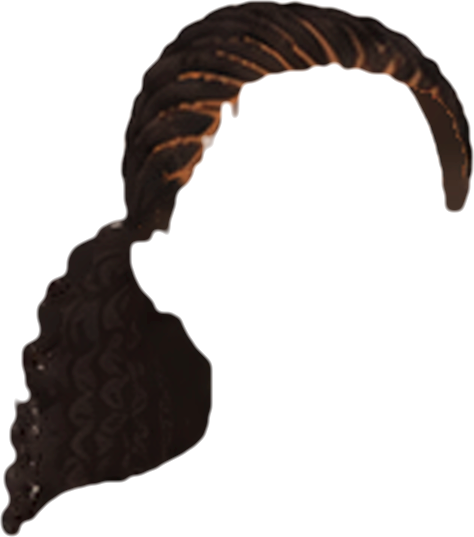
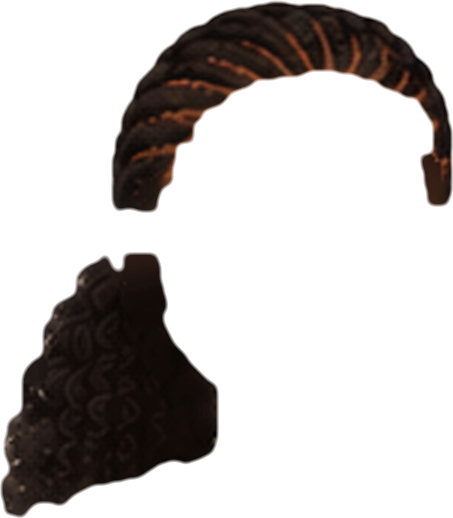
Coiffures bouclées : décalquées sur la nouvelle planche de face (visage du jeu), oreilles rebouchées
Claude-Session: https://claude.ai/code/session_01Vs8WE84NbYT2qCXEQSttrj

Changed region(s): [[0.0, 0.0, 1.0, 1.0]]

diff --git a/js/coiffures-art.js b/js/coiffures-art.js
@@ -1,2 +1,2 @@
 /* formes décalquées par tools/traceur-coiffures.py sur docs/references/coiffures/ — ne pas modifier à la main */
-const HAIR_ART={"longs":{"img":[61.76,56.98,276.48,530.04],"lum":[0.079,0.145,0.33],"fcut":[345,136],"main":"#2f2420","back":[["sil","M76.6,307.2 76.4,323.2 73.5,334.3 73.5,350.9 70.5,357.7 70.5,364.1 72.0,368.0 72.2,374.9 75.3,376.5 76.4,378.4 74.9,385.0 324.9,385.0 323.4,378.4 324.5,376.5 327.6,374.9 327.8,368.0 329.3,364.1 329.3,357.7 326.4,350.9 326.4,334.3 323.4,323.2 323.4,308.0 321.8,303.2 78.0,303.2Z","#211815"]],"front":[["sil","","#2f2420"]]},"carrelisse":{"img":[64.24,52.26,260.24,271.92],"lum":[0.075,0.147,0.377],"main":"#29201c","back":[["sil","","#1a1411"]],"front":[["sil","","#29201c"]]},"queuehaute2":{"img":[95.53,4.04,242.49,372.16],"lum":[0.081,0.152,0.38],"ears":1,"main":"#281e1b","back":[["sil","","#1c1613"]],"front":[["sil","","#281e1b"]]},"mechesdevant":{"img":[52.66,40.92,292.88,450.58],"lum":[0.066,0.132,0.372],"main":"#2b211d","back":[["sil","M64.8,297.4 64.8,308.7 61.3,313.7 61.3,317.6 59.6,322.1 59.6,329.7 57.9,334.2 57.9,343.6 56.1,348.1 56.1,353.9 52.7,367.2 52.7,379.7 54.2,381.9 76.9,382.1 76.9,392.1 73.5,405.3 73.5,411.1 71.7,415.7 71.7,423.3 70.0,427.8 70.0,452.7 71.7,457.3 71.9,462.3 76.5,473.3 86.7,483.9 96.9,486.5 103.4,491.3 287.7,491.3 294.2,486.5 299.6,485.7 306.5,482.2 315.0,474.0 320.8,458.8 321.1,448.6 322.8,444.1 322.8,436.5 321.1,431.9 321.1,420.9 319.3,416.3 319.3,407.0 317.6,402.5 317.6,394.9 315.9,390.3 315.9,383.8 343.8,383.6 345.3,381.5 345.3,370.6 343.6,366.1 343.6,362.0 341.9,357.4 341.9,353.3 338.4,340.1 338.4,334.2 334.9,321.0 334.9,311.7 333.2,307.2 333.2,301.3 331.7,297.4Z","#1a1411"]],"front":[["sil","","#2b211d"]]},"frangedroite":{"img":[73.46,44.39,265.15,443.65],"lum":[0.071,0.146,0.373],"main":"#291f1c","back":[["sil","M77.6,297.6 76.9,324.5 75.2,329.0 75.2,340.1 76.9,344.6 76.9,353.7 73.5,358.7 73.5,369.5 76.3,373.7 281.2,374.1 281.4,412.9 283.1,417.4 283.1,449.3 284.9,453.8 285.3,485.0 290.5,487.8 331.0,487.8 338.0,485.0 338.4,471.1 336.7,466.6 336.7,446.9 334.9,442.3 334.9,429.6 333.2,425.0 333.2,415.7 331.5,411.1 331.5,400.1 329.7,395.5 329.7,388.0 328.0,383.4 328.0,356.8 326.3,352.2 326.3,341.2 324.5,336.6 324.5,318.6 322.8,314.1 322.8,299.6 321.9,297.4Z","#191310"]],"front":[["sil","","#291f1c"]]},"chignonhaut2":{"img":[88.56,-28.55,213.5,337.75],"lum":[0.102,0.159,0.406],"ears":1,"main":"#2d241f","back":[["sil","","#241b18"]],"front":[["sil","","#2d241f"]]},"raiecotel":{"img":[45.39,39.7,268.92,446.25],"lum":[0.074,0.142,0.34],"main":"#271f1d","back":[["sil","M62.7,479.8 65.2,483.5 71.5,485.7 126.4,485.7 129.9,483.3 130.3,472.4 125.1,455.5 125.1,451.4 123.3,446.8 123.3,440.9 121.6,436.3 121.6,425.1 119.8,420.5 119.8,407.6 118.1,403.0 118.1,374.4 116.8,370.0 313.0,369.8 314.1,367.8 314.1,351.6 312.3,347.0 312.3,318.4 310.6,313.8 310.6,296.9 58.8,296.9 57.1,302.6 57.1,312.0 55.3,316.6 55.3,324.3 53.6,328.9 53.6,340.0 51.8,344.6 51.8,352.3 50.1,356.9 50.1,362.8 48.3,367.4 48.3,373.3 46.6,377.9 46.6,383.8 44.8,388.4 44.8,391.7 45.7,394.3 60.6,394.5 60.6,404.8 58.8,409.4 58.8,460.8 60.6,465.4 60.6,469.5 62.3,474.1Z","#181412"]],"front":[["sil","","#271f1d"]]},"deuxtresses":{"img":[80.41,47.89,228.48,455.17],"lum":[0.079,0.134,0.364],"ears":1,"main":"#2b221e","back":[["sil","","#1c1613"]],"front":[["sil","","#2b221e"]]},"serretete":{"img":[63.31,42.58,266.87,334.02],"lum":[0.067,0.132,0.354],"acc":1,"main":"#211a17","back":[["sil","M67.1,299.6 66.8,315.3 65.1,319.9 65.1,331.2 63.3,335.8 63.3,345.3 65.1,349.9 65.1,355.9 63.3,360.5 63.3,374.2 64.4,376.2 324.0,376.2 326.9,378.2 328.4,378.0 329.7,376.2 330.0,349.9 328.2,345.3 328.2,327.0 326.4,322.3 326.4,302.2 324.7,296.5 68.4,296.5Z","#16120f"]],"front":[["sil","","#211a17"]]},"barrette":{"img":[57.2,42.54,269.53,306.42],"lum":[0.067,0.141,0.442],"acc":1,"main":"#271e1b","back":[["sil","M57.2,297.8 57.2,307.8 59.0,312.5 59.2,317.6 63.0,329.0 67.9,337.7 82.6,342.2 96.7,344.2 105.8,347.5 115.4,347.5 120.1,349.3 123.7,348.9 125.3,345.8 283.2,345.8 290.6,342.4 305.5,340.2 309.6,337.3 315.8,335.9 318.9,332.6 321.4,325.9 324.5,322.8 324.7,317.9 326.5,313.2 326.5,297.8Z","#17120f"]],"front":[["sil","","#271e1b"]]},"raiemilieu":{"img":[55.52,32.13,284.14,450.5],"lum":[0.067,0.142,0.369],"main":"#281f1b","back":[["sil","M62.8,296.8 62.8,299.8 61.0,304.6 61.0,321.7 59.2,326.4 59.2,341.7 57.3,346.5 57.3,356.3 55.5,361.0 55.5,374.5 56.4,376.8 58.3,378.1 73.7,378.4 73.7,390.9 71.9,395.7 71.9,401.8 70.1,406.6 70.1,412.7 68.3,417.5 68.3,425.5 66.5,430.3 66.5,440.1 64.6,444.8 64.6,458.3 62.8,463.0 62.8,479.9 63.9,481.9 327.8,482.4 329.9,481.3 330.3,468.5 328.5,463.7 328.5,444.8 326.7,440.1 326.7,430.3 324.9,425.5 324.9,419.3 323.0,414.6 323.0,408.4 321.2,403.6 321.2,393.8 319.4,389.1 318.9,379.7 338.8,379.5 339.4,377.2 339.4,357.4 337.6,352.6 337.6,339.2 335.8,334.4 335.8,321.0 334.0,316.2 334.0,306.4 332.2,301.6 332.2,296.8Z","#1b1511"]],"front":[["sil","","#281f1b"]]},"queuelisse":{"img":[87.02,5.23,239.8,369.02],"lum":[0.07,0.142,0.374],"ears":1,"main":"#231b18","back":[["sil","M87.0,297.3 87.0,309.3 88.8,314.0 88.8,339.9 87.0,344.7 87.0,364.9 88.6,367.2 306.5,367.4 316.9,371.5 321.6,375.3 323.9,375.1 326.4,373.0 326.6,364.5 324.8,359.8 324.8,353.7 323.0,348.9 323.0,342.8 321.2,338.1 321.2,332.0 319.4,327.3 319.4,319.4 317.6,314.7 317.6,308.6 315.8,303.9 315.8,297.3Z","#171310"]],"front":[["sil","","#231b18"]]},"bafro":{"img":[-35.38,-42.2,441.59,404.36],"lum":[0.085,0.118,0.459],"main":"#231917","back":[["sil","","#1e1513"]],"front":[["sil","","#231917"]]},"bbantu":{"img":[64.41,16.43,267.67,201.6],"lum":[0.08,0.126,0.399],"ears":1,"main":"#241a17","back":[["sil","","#1e1513"]],"front":[["sil","","#241a17"]]},"bcarre":{"img":[-2.61,34.18,393.98,324.86],"lum":[0.081,0.118,0.414],"main":"#231816","back":[["sil","","#1c1411"]],"front":[["sil","","#231816"]]},"bchignon":{"img":[50.96,-55.67,266.11,266.68],"lum":[0.09,0.13,0.531],"ears":1,"main":"#271c19","back":[["sil","","#211715"]],"front":[["sil","","#271c19"]]},"bpuffs":{"img":[-2.22,-19.51,380.5,271.12],"lum":[0.083,0.121,0.556],"ears":1,"main":"#241a17","back":[["sil","","#1e1513"]],"front":[["sil","","#241a17"]]},"bbox":{"img":[36.18,45.08,305.45,357.81],"lum":[0.066,0.11,0.397],"main":"#261c19","back":[["sil","","#18110f"]],"front":[["sil","","#261c19"]]},"bcollees":{"img":[93.21,46.92,210.07,306.63],"lum":[0.063,0.119,0.512],"ears":1,"main":"#211816","back":[["sil","","#1a1211"]],"front":[["sil","","#211816"]]},"bdemiqueue":{"img":[-4.99,-5.51,384.79,420.41],"lum":[0.074,0.116,0.445],"main":"#211815","back":[["sil","","#1b1210"]],"front":[["sil","","#211815"]]},"bqueue":{"img":[-22.99,26.21,340.31,389.68],"lum":[0.08,0.122,0.43],"ears":1,"main":"#221816","back":[["sil","","#1c1411"]],"front":[["sil","","#221816"]]},"blongs":{"img":[-15.94,38.56,410.84,382.62],"lum":[0.075,0.114,0.378],"main":"#261c19","back":[["sil","","#1b1310"]],"front":[["sil","","#261c19"]]},"bchignonhaut":{"img":[75.87,-38.35,256.28,296.41],"lum":[0.078,0.116,0.525],"ears":1,"main":"#221816","back":[["sil","","#1c1411"]],"front":[["sil","","#221816"]]},"bchignonbas":{"img":[13.26,44.74,325.16,294.19],"lum":[0.082,0.128,0.451],"ears":1,"main":"#2b201d","back":[["sil","","#1e1513"]],"front":[["sil","","#2b201d"]]},"btwists":{"img":[44.85,44.74,293.57,371.61],"lum":[0.066,0.11,0.393],"main":"#201614","back":[["sil","","#19110f"]],"front":[["sil","","#201614"]]},"bchignonmeches":{"img":[59.71,-19.67,263.84,301.0],"lum":[0.088,0.127,0.56],"ears":1,"main":"#2b1f1c","back":[["sil","","#201614"]],"front":[["sil","","#2b1f1c"]]},"bwashgo":{"img":[-14.33,34.03,409.46,330.57],"lum":[0.079,0.111,0.473],"main":"#211715","back":[["sil","","#1c1411"]],"front":[["sil","","#211715"]]},"bfoulard":{"img":[17.63,-15.05,289.29,226.51],"lum":[0.077,0.119,0.521],"acc":1,"ears":1,"main":"#211815","back":[["sil","","#1c1311"]],"front":[["sil","","#211815"]]},"btressesboucles":{"img":[-20.98,37.88,402.54,365.23],"lum":[0.074,0.109,0.442],"main":"#201614","back":[["sil","","#1a1210"]],"front":[["sil","","#201614"]]},"bcourt":{"img":[49.71,4.49,284.72,212.07],"lum":[0.096,0.123,0.417],"ears":1,"main":"#261b19","back":[["sil","","#211815"]],"front":[["sil","","#261b19"]]},"bqueuehaute":{"img":[-22.95,4.49,345.6,390.76],"lum":[0.083,0.121,0.442],"ears":1,"main":"#221916","back":[["sil","","#1c1412"]],"front":[["sil","","#221916"]]},"btressesarriere":{"img":[7.92,52.9,306.76,347.54],"lum":[0.077,0.114,0.434],"ears":1,"main":"#211815","back":[["sil","","#1b1311"]],"front":[["sil","","#211815"]]}};
+const HAIR_ART={"longs":{"img":[61.76,56.98,276.48,530.04],"lum":[0.079,0.145,0.33],"fcut":[345,136],"main":"#2f2420","back":[["sil","M76.6,307.2 76.4,323.2 73.5,334.3 73.5,350.9 70.5,357.7 70.5,364.1 72.0,368.0 72.2,374.9 75.3,376.5 76.4,378.4 74.9,385.0 324.9,385.0 323.4,378.4 324.5,376.5 327.6,374.9 327.8,368.0 329.3,364.1 329.3,357.7 326.4,350.9 326.4,334.3 323.4,323.2 323.4,308.0 321.8,303.2 78.0,303.2Z","#211815"]],"front":[["sil","","#2f2420"]]},"carrelisse":{"img":[64.24,52.26,260.24,271.92],"lum":[0.075,0.147,0.377],"main":"#29201c","back":[["sil","","#1a1411"]],"front":[["sil","","#29201c"]]},"queuehaute2":{"img":[95.53,4.04,242.49,372.16],"lum":[0.081,0.152,0.38],"ears":1,"main":"#281e1b","back":[["sil","","#1c1613"]],"front":[["sil","","#281e1b"]]},"mechesdevant":{"img":[52.66,40.92,292.88,450.58],"lum":[0.066,0.132,0.372],"main":"#2b211d","back":[["sil","M64.8,297.4 64.8,308.7 61.3,313.7 61.3,317.6 59.6,322.1 59.6,329.7 57.9,334.2 57.9,343.6 56.1,348.1 56.1,353.9 52.7,367.2 52.7,379.7 54.2,381.9 76.9,382.1 76.9,392.1 73.5,405.3 73.5,411.1 71.7,415.7 71.7,423.3 70.0,427.8 70.0,452.7 71.7,457.3 71.9,462.3 76.5,473.3 86.7,483.9 96.9,486.5 103.4,491.3 287.7,491.3 294.2,486.5 299.6,485.7 306.5,482.2 315.0,474.0 320.8,458.8 321.1,448.6 322.8,444.1 322.8,436.5 321.1,431.9 321.1,420.9 319.3,416.3 319.3,407.0 317.6,402.5 317.6,394.9 315.9,390.3 315.9,383.8 343.8,383.6 345.3,381.5 345.3,370.6 343.6,366.1 343.6,362.0 341.9,357.4 341.9,353.3 338.4,340.1 338.4,334.2 334.9,321.0 334.9,311.7 333.2,307.2 333.2,301.3 331.7,297.4Z","#1a1411"]],"front":[["sil","","#2b211d"]]},"frangedroite":{"img":[73.46,44.39,265.15,443.65],"lum":[0.071,0.146,0.373],"main":"#291f1c","back":[["sil","M77.6,297.6 76.9,324.5 75.2,329.0 75.2,340.1 76.9,344.6 76.9,353.7 73.5,358.7 73.5,369.5 76.3,373.7 281.2,374.1 281.4,412.9 283.1,417.4 283.1,449.3 284.9,453.8 285.3,485.0 290.5,487.8 331.0,487.8 338.0,485.0 338.4,471.1 336.7,466.6 336.7,446.9 334.9,442.3 334.9,429.6 333.2,425.0 333.2,415.7 331.5,411.1 331.5,400.1 329.7,395.5 329.7,388.0 328.0,383.4 328.0,356.8 326.3,352.2 326.3,341.2 324.5,336.6 324.5,318.6 322.8,314.1 322.8,299.6 321.9,297.4Z","#191310"]],"front":[["sil","","#291f1c"]]},"chignonhaut2":{"img":[88.56,-28.55,213.5,337.75],"lum":[0.102,0.159,0.406],"ears":1,"main":"#2d241f","back":[["sil","","#241b18"]],"front":[["sil","","#2d241f"]]},"raiecotel":{"img":[45.39,39.7,268.92,446.25],"lum":[0.074,0.142,0.34],"main":"#271f1d","back":[["sil","M62.7,479.8 65.2,483.5 71.5,485.7 126.4,485.7 129.9,483.3 130.3,472.4 125.1,455.5 125.1,451.4 123.3,446.8 123.3,440.9 121.6,436.3 121.6,425.1 119.8,420.5 119.8,407.6 118.1,403.0 118.1,374.4 116.8,370.0 313.0,369.8 314.1,367.8 314.1,351.6 312.3,347.0 312.3,318.4 310.6,313.8 310.6,296.9 58.8,296.9 57.1,302.6 57.1,312.0 55.3,316.6 55.3,324.3 53.6,328.9 53.6,340.0 51.8,344.6 51.8,352.3 50.1,356.9 50.1,362.8 48.3,367.4 48.3,373.3 46.6,377.9 46.6,383.8 44.8,388.4 44.8,391.7 45.7,394.3 60.6,394.5 60.6,404.8 58.8,409.4 58.8,460.8 60.6,465.4 60.6,469.5 62.3,474.1Z","#181412"]],"front":[["sil","","#271f1d"]]},"deuxtresses":{"img":[80.41,47.89,228.48,455.17],"lum":[0.079,0.134,0.364],"ears":1,"main":"#2b221e","back":[["sil","","#1c1613"]],"front":[["sil","","#2b221e"]]},"serretete":{"img":[63.31,42.58,266.87,334.02],"lum":[0.067,0.132,0.354],"acc":1,"main":"#211a17","back":[["sil","M67.1,299.6 66.8,315.3 65.1,319.9 65.1,331.2 63.3,335.8 63.3,345.3 65.1,349.9 65.1,355.9 63.3,360.5 63.3,374.2 64.4,376.2 324.0,376.2 326.9,378.2 328.4,378.0 329.7,376.2 330.0,349.9 328.2,345.3 328.2,327.0 326.4,322.3 326.4,302.2 324.7,296.5 68.4,296.5Z","#16120f"]],"front":[["sil","","#211a17"]]},"barrette":{"img":[57.2,42.54,269.53,306.42],"lum":[0.067,0.141,0.442],"acc":1,"main":"#271e1b","back":[["sil","M57.2,297.8 57.2,307.8 59.0,312.5 59.2,317.6 63.0,329.0 67.9,337.7 82.6,342.2 96.7,344.2 105.8,347.5 115.4,347.5 120.1,349.3 123.7,348.9 125.3,345.8 283.2,345.8 290.6,342.4 305.5,340.2 309.6,337.3 315.8,335.9 318.9,332.6 321.4,325.9 324.5,322.8 324.7,317.9 326.5,313.2 326.5,297.8Z","#17120f"]],"front":[["sil","","#271e1b"]]},"raiemilieu":{"img":[55.52,32.13,284.14,450.5],"lum":[0.067,0.142,0.369],"main":"#281f1b","back":[["sil","M62.8,296.8 62.8,299.8 61.0,304.6 61.0,321.7 59.2,326.4 59.2,341.7 57.3,346.5 57.3,356.3 55.5,361.0 55.5,374.5 56.4,376.8 58.3,378.1 73.7,378.4 73.7,390.9 71.9,395.7 71.9,401.8 70.1,406.6 70.1,412.7 68.3,417.5 68.3,425.5 66.5,430.3 66.5,440.1 64.6,444.8 64.6,458.3 62.8,463.0 62.8,479.9 63.9,481.9 327.8,482.4 329.9,481.3 330.3,468.5 328.5,463.7 328.5,444.8 326.7,440.1 326.7,430.3 324.9,425.5 324.9,419.3 323.0,414.6 323.0,408.4 321.2,403.6 321.2,393.8 319.4,389.1 318.9,379.7 338.8,379.5 339.4,377.2 339.4,357.4 337.6,352.6 337.6,339.2 335.8,334.4 335.8,321.0 334.0,316.2 334.0,306.4 332.2,301.6 332.2,296.8Z","#1b1511"]],"front":[["sil","","#281f1b"]]},"queuelisse":{"img":[87.02,5.23,239.8,369.02],"lum":[0.07,0.142,0.374],"ears":1,"main":"#231b18","back":[["sil","M87.0,297.3 87.0,309.3 88.8,314.0 88.8,339.9 87.0,344.7 87.0,364.9 88.6,367.2 306.5,367.4 316.9,371.5 321.6,375.3 323.9,375.1 326.4,373.0 326.6,364.5 324.8,359.8 324.8,353.7 323.0,348.9 323.0,342.8 321.2,338.1 321.2,332.0 319.4,327.3 319.4,319.4 317.6,314.7 317.6,308.6 315.8,303.9 315.8,297.3Z","#171310"]],"front":[["sil","","#231b18"]]},"bafro":{"img":[-22.23,-51.6,446.11,417.82],"lum":[0.059,0.097,0.345],"main":"#1c1310","back":[["sil","","#160e0c"]],"front":[["sil","","#1c1310"]]},"bbantu":{"img":[58.4,-7.44,284.97,223.02],"lum":[0.052,0.119,0.341],"ears":1,"main":"#1f1613","back":[["sil","","#160f0d"]],"front":[["sil","","#1f1613"]]},"bcarre":{"img":[-14.17,16.16,417.72,349.87],"lum":[0.052,0.093,0.393],"main":"#211714","back":[["sil","","#150d0a"]],"front":[["sil","","#211714"]]},"bchignon":{"img":[56.04,-74.85,280.25,252.59],"lum":[0.045,0.097,0.504],"ears":1,"main":"#1a1210","back":[["sil","","#130c0a"]],"front":[["sil","","#1a1210"]]},"bpuffs":{"img":[-6.07,-33.75,406.17,282.58],"lum":[0.049,0.103,0.565],"ears":1,"main":"#1c1411","back":[["sil","","#140d0b"]],"front":[["sil","","#1c1411"]]},"bbox":{"img":[37.16,26.19,323.91,394.12],"lum":[0.04,0.095,0.339],"main":"#19110e","back":[["sil","","#110b08"]],"front":[["sil","","#19110e"]]},"bcollees":{"img":[89.26,29.79,221.68,341.97],"lum":[0.037,0.102,0.358],"ears":1,"main":"#1a120f","back":[["sil","","#110b09"]],"front":[["sil","","#1a120f"]]},"bdemiqueue":{"img":[-2.96,-24.53,400.48,443.39],"lum":[0.049,0.098,0.424],"main":"#1a110f","back":[["sil","","#140c09"]],"front":[["sil","","#1a110f"]]},"bqueue":{"img":[-19.11,-13.87,331.64,450.88],"lum":[0.05,0.101,0.479],"ears":1,"main":"#1b120f","back":[["sil","","#140c0a"]],"front":[["sil","","#1b120f"]]},"blongs":{"img":[-28.33,20.88,440.73,408.87],"lum":[0.052,0.094,0.382],"main":"#1a120f","back":[["sil","","#150d0a"]],"front":[["sil","","#1a120f"]]},"bchignonhaut":{"img":[54.2,-60.1,265.5,238.46],"lum":[0.045,0.099,0.528],"ears":1,"main":"#1a120f","back":[["sil","","#130b09"]],"front":[["sil","","#1a120f"]]},"bchignonbas":{"img":[2.88,22.15,317.2,322.46],"lum":[0.05,0.107,0.353],"ears":1,"main":"#1e1512","back":[["sil","","#150d0b"]],"front":[["sil","","#1e1512"]]},"btwists":{"img":[51.95,20.4,297.92,396.06],"lum":[0.041,0.097,0.303],"main":"#1a120f","back":[["sil","","#120b09"]],"front":[["sil","","#1a120f"]]},"bchignonmeches":{"img":[64.47,-46.78,265.5,320.89],"lum":[0.045,0.109,0.56],"ears":1,"main":"#1c1411","back":[["sil","","#130c0a"]],"front":[["sil","","#1c1411"]]},"bwashgo":{"img":[-29.45,14.63,449.72,358.21],"lum":[0.052,0.092,0.438],"main":"#1a110f","back":[["sil","","#140c0a"]],"front":[["sil","","#1a110f"]]},"bfoulard":{"img":[31.87,-33.31,334.81,219.65],"lum":[0.044,0.099,0.482],"acc":1,"ears":1,"main":"#19110e","back":[["sil","","#120b08"]],"front":[["sil","","#19110e"]]},"btressesboucles":{"img":[-25.34,11.74,437.41,368.24],"lum":[0.047,0.094,0.405],"main":"#1a110f","back":[["sil","","#130c09"]],"front":[["sil","","#1a110f"]]},"bcourt":{"img":[42.53,-19.81,317.75,231.73],"lum":[0.062,0.099,0.378],"ears":1,"main":"#1d1411","back":[["sil","","#170f0d"]],"front":[["sil","","#1d1411"]]},"bqueuehaute":{"img":[-47.74,-22.65,369.64,407.31],"lum":[0.048,0.098,0.449],"ears":1,"main":"#1a120f","back":[["sil","","#130c09"]],"front":[["sil","","#1a120f"]]},"btressesarriere":{"img":[4.41,37.45,303.72,347.3],"lum":[0.044,0.096,0.382],"ears":1,"main":"#19110e","back":[["sil","","#120b08"]],"front":[["sil","","#19110e"]]}};

diff --git a/js/app.js b/js/app.js
@@ -663,7 +663,7 @@ function neckZone(face,FY){const k=face+FY;if(NZ[k])return NZ[k];const d=(FACES[
    chaque nuance garde son écart de clarté avec la teinte principale ; les nuances sont adoucies (flou) dans la silhouette */
 const HART=s=>typeof HAIR_ART!=='undefined'&&HAIR_ART[s.hair];
 /* oreilles du jeu (même ellipse que leur dessin) : trous dans les cheveux de devant quand la coiffure les dégage */
-function earHoles(s){const ex=(FACES[s.face]||FACES.joufflu).ex,big=s.face==='naturel',rx=(big?21:17)+1,ry=(big?31:27)+1;
+function earHoles(s){const ex=(FACES[s.face]||FACES.joufflu).ex,big=s.face==='naturel',rx=(big?21:17)-1.5,ry=(big?31:27)-1.5;
  return [ex-(big?3:0),400-ex+(big?3:0)].map(x=>`M${x-rx},207 a${rx},${ry} 0 1,0 ${2*rx},0 a${rx},${ry} 0 1,0 ${-2*rx},0Z`).join(' ')}
 function hairArt(s,part,p){const A=HART(s),L=A[part];if(!L||!L.length)return '';const hc=s.hairColor,m=A.main,same=Math.hypot(...rgb(hc).map((v,i)=>v-rgb(m)[i]))<40;
  const tint=f=>{if(same)return f;const d=lum(f)-lum(m);return d>=0?mix(hc,shade(hc,.55),Math.min(1,d*3.2)):mix(hc,shade(hc,-.6),Math.min(1,-d*3.2))};

diff --git a/tools/traceur-coiffures.py b/tools/traceur-coiffures.py
@@ -30,22 +30,34 @@ HAIRS.update({
 })
 # planche des coiffures bouclées et crépues (docs/references/coiffures/planche-bouclees.png) : autre modèle de visage,
 # un peu plus grand (×1,033 d'après l'écart des yeux et la hauteur yeux-menton) ; rangées : étiquette du nom en bas de chaque case
-ROW_B = [268, 236, 219, 204]
+# Prescillia l'a refaite de face, avec le visage du jeu (planche-bouclees-face.png) : c'est celle-ci qui est décalquée ;
+# l'ancienne (têtes de trois quarts, dossier bouclees/) reste pour mémoire
+ROW_B = [274, 256, 251, 204]
 def boucle(nom, rang, back=False, **kw):
-    return {'src': f'docs/references/coiffures/bouclees/{nom}.png', 'match': 'b', 'bottom': ROW_B[rang], 'back': back, 'tips': False, 'smooth': False, 'bord': 13, **kw}
+    return {'src': f'docs/references/coiffures/bouclees-face/{nom}.png', 'match': 'c', 'bottom': ROW_B[rang], 'back': back, 'tips': False, 'smooth': False, 'bord': 13, **kw}
 for i, ids in enumerate([['bafro', 'bbantu', 'bcarre', 'bchignon', 'bpuffs'], ['bbox', 'bcollees', 'bdemiqueue', 'bqueue', 'blongs'],
                          ['bchignonhaut', 'bchignonbas', 'btwists', 'bchignonmeches', 'bwashgo'], ['bfoulard', 'btressesboucles', 'bcourt', 'bqueuehaute', 'btressesarriere']]):
-    for k in ids: HAIRS[k] = boucle(k, i)
-HAIRS['bbox']['bottom'] = 222
+    for k in ids: HAIRS[k] = boucle(k, i, combler='gd')   # trous entre les cheveux et le visage (oreille du dessin) bouchés
 HAIRS['bfoulard']['accessoire'] = 'foulard'
 for k in ['bbantu', 'bchignon', 'bpuffs', 'bcollees', 'bchignonhaut', 'bchignonmeches', 'bfoulard', 'bcourt', 'bchignonbas']: HAIRS[k]['oreilles'] = True
 for k in ['bqueue', 'bqueuehaute', 'btressesarriere']: HAIRS[k].update(oreilles=True, combler='gd')
-for k, v in {'bchignonhaut': (-71, 51), 'bchignonbas': (-86, 57), 'bchignonmeches': (-75, 52), 'bqueue': (-75, 57),
-             'btressesarriere': (-70, 47), 'bqueuehaute': (-72, 50)}.items(): HAIRS[k]['face3q'] = v   # bords du crâne (px, depuis l'axe des yeux)
-HAIRS['bchignonhaut']['chignon'] = (20, 60, 95); HAIRS['bchignonmeches']['chignon'] = (22, 50, 85)
 # modèles de visage : image, découpe (sourcils -> bouche), centre des yeux et menton dans la découpe, taille par rapport au visage de « longs »
+K_LONGS, CHIN_U = 1.785, 308.5
+def _bez(d):   # contour du visage « ovale » du jeu (FACES.ovale dans js/app.js), en points
+    n = [float(t) for t in d.replace('M', ' ').replace('C', ' ').replace('Z', ' ').replace(',', ' ').split()]
+    P = [(n[0], n[1])]; pts = []
+    for i in range(2, len(n), 6):
+        p1, p2, p3 = (n[i], n[i + 1]), (n[i + 2], n[i + 3]), (n[i + 4], n[i + 5]); p0 = P[-1]
+        for t in np.linspace(0, 1, 30):
+            pts.append([(1 - t) ** 3 * p0[k] + 3 * (1 - t) ** 2 * t * p1[k] + 3 * (1 - t) * t * t * p2[k] + t ** 3 * p3[k] for k in (0, 1)])
+        P.append(p3)
+    return np.array(pts, np.float32)
+FACE_OV = _bez('M200,312 C140,312 106,262 106,190 C106,112 148,70 200,70 C252,70 294,112 294,190 C294,262 260,312 200,312Z')
 FACES_T = {True: (cv2.imread('docs/references/coiffures/modele-visage.png')[92:165, 70:138], 34, 25.5, 80, 1.0),
-           'b': (cv2.imread('docs/references/coiffures/bouclees/bcarre.png')[116:186, 82:162], 39.25, 27, 82.75, 1.033)}
+           'b': (cv2.imread('docs/references/coiffures/bouclees/bcarre.png')[116:186, 82:162], 39.25, 27, 82.75, 1.033),
+           # visage du jeu dessiné par Prescillia : yeux à ±30 px et 59 px au-dessus du menton = yeux du jeu (±52, y 205) et menton (y 312)
+           'c': (cv2.imread('docs/references/coiffures/bouclees-face/bcarre.png')[118:194, 95:191], 48, 30, 89.5, K_LONGS / 1.77)}
+EYES_T = {True: (26.25, 54.5), 'b': (27.1, 56.3), 'c': (30, 59.5)}   # écart des yeux au centre et hauteur yeux-menton, en px du modèle (taille 1)
 def visage(img, m=True):
     T, ex, ey_, ch, k = FACES_T[m]; best = None
     for s in np.arange(.8, 1.45, .01):
@@ -55,11 +67,12 @@ def visage(img, m=True):
     v, s, (x, y) = best
     return s * k, x + ex * s, y + ch * s
 # repère du dessin « longs » : 1,785 unité de tête par pixel du modèle, menton du modèle en y = 308,5
-K_LONGS, CHIN_U = 1.785, 308.5
 UP = 8
 dbg = sys.argv[1] if len(sys.argv) > 1 else None
 out = {}
+ONLY = os.environ.get("ONLY", "").split(",") if os.environ.get("ONLY") else None
 for hid, c in HAIRS.items():
+    if ONLY and hid not in ONLY: continue
     im = cv2.imread(c['src'])[:, :, ::-1].astype(int)
     if c.get('match'):
         fs, fcx, fch = visage(cv2.imread(c['src']), c['match'])
@@ -78,8 +91,10 @@ for hid, c in HAIRS.items():
                 mx -= (S_ * np.clip((y1_ - ys_) / (y1_ - y0_), 0, 1))[:, None]
             im = cv2.remap(im.astype(np.uint8), mx, my, cv2.INTER_CUBIC, borderMode=cv2.BORDER_REPLICATE).astype(int)
         c['cut'] = [(int(fch + 4 * fs), int(fch + 22 * fs), int(fcx - 24 * fs), int(fcx + 24 * fs))]   # ras-de-cou
-        ey = fch - 54.5 * fs   # les deux yeux (quand une mèche fine les touche, ils seraient pris pour des cheveux)
-        c['cut'] += [(int(ey - 10 * fs), int(ey + 10 * fs), int(fcx + dx * fs - 15 * fs), int(fcx + dx * fs + 15 * fs)) for dx in (-26.25, 26.25)]
+        ex_, ey_ = EYES_T[c['match']]; sc_ = fs / FACES_T[c['match']][4]   # les deux yeux (quand une mèche fine les touche, ils seraient pris pour des cheveux)
+        ey = fch - ey_ * sc_
+        mh, mw = (10, 15) if c['match'] is True else (11, 16)
+        c['cut'] += [(int(ey - mh * sc_), int(ey + mh * sc_), int(fcx + dx * sc_ - mw * sc_), int(fcx + dx * sc_ + mw * sc_)) for dx in (-ex_, ex_)]
         c['back'] = (int(fch - 6 * fs), c['bottom'], 0, im.shape[1]) if c['back'] else None
     if c.get('mirror'):   # moitié du dessin recopiée en miroir (Prescillia a validé ce côté-là)
         sk0 = (im[..., 0] - im[..., 2] > 45) & (im[..., 0] > 120); fx0 = np.where(sk0[c['face_row']])[0]; cx0 = (fx0.min() + fx0.max() + 1) / 2
@@ -173,13 +188,18 @@ for hid, c in HAIRS.items():
         for y, x in zip(*np.where(c.get('perle', fill))):   # contour sombre des perles retirées : rebouché en cheveux s'il est hors du visage du jeu
             u, v = toU(x * UP, y * UP)
             if ((u - 200) / 94) ** 2 + ((v - 190) / 122) ** 2 > 1: fill[y, x] = True
-        for y in range(top, int(c['chin'] - 28 * c['face'][0]) if c.get('combler') else top):   # jusqu'au bas de l'oreille
+        exact = c.get('match') == 'c'   # planche au visage du jeu : contour exact du visage ovale, des tempes jusqu'au menton
+        y1_ = int(c['chin']) if exact else int(c['chin'] - 28 * c['face'][0])
+        for y in range(top, y1_ if c.get('combler') else top):   # jusqu'au bas de l'oreille
             xs_ = np.where(hair[y])[0]
             if len(xs_) < 2: continue
-            for x in range(xs_.min(), xs_.max()):
+            for x in (range(hair.shape[1]) if exact else range(xs_.min(), xs_.max())):
                 if hair[y, x]: continue
                 u, v = toU(x * UP, y * UP)
-                if (u < 200 if c['combler'] == 'g' else True) and ((u - 200) / 94) ** 2 + ((v - 190) / 122) ** 2 > 1: fill[y, x] = True
+                if exact:   # entre les cheveux (du côté extérieur) et le bord du visage, sur une bande de 22 unités : l'oreille du dessin est rebouchée
+                    if not (140 < v < 245 and (xs_.min() < x if u < 200 else xs_.max() > x)): continue   # hauteur de l'oreille seulement
+                    if -22 < cv2.pointPolygonTest(FACE_OV, (float(u), float(v)), True) < 4: fill[y, x] = True   # 4 unités sur le bord du visage : pas de liseré clair
+                elif (u < 200 if c['combler'] == 'g' else True) and ((u - 200) / 94) ** 2 + ((v - 190) / 122) ** 2 > 1: fill[y, x] = True
         n_, lab_, st_, _ = cv2.connectedComponentsWithStats(fill.astype(np.uint8), 8)
         fill = np.isin(lab_, [i for i in range(1, n_) if st_[i][4] > 6])
         # couleur unie des cheveux voisins (moyenne des seuls pixels de cheveux, très floutée) : pas de peau, pas de motif
@@ -254,7 +274,7 @@ for hid, c in HAIRS.items():
     near = cv2.dilate(hole, np.ones((5, 5), np.uint8)).astype(bool)
     lumc = (clean.astype(float) * [.299, .587, .114]).sum(-1)
     sk_in = (((clean[..., 0].astype(int) - clean[..., 2] > 40) & (clean[..., 0] > 80)) | (near & (lumc > 55)) | hole.astype(bool)).astype(np.uint8)
-    if c.get('match') == 'b':   # bretelles blanches du débardeur et fond clair coincés entre les boucles ou les tresses : repeints en cheveux
+    if c.get('match') in ('b', 'c'):   # bretelles blanches du débardeur et fond clair coincés entre les boucles ou les tresses : repeints en cheveux
         sk_in |= ((lumc > 140) & (abs(clean[..., 0].astype(int) - clean[..., 2]) < 45)).astype(np.uint8)
     if c.get('accessoire'): sk_in[cv2.dilate(hole, np.ones((5, 5), np.uint8)) > 0] = 0   # barrette : gardée telle quelle, pas repeinte en cheveux
     F = F | (cv2.resize(hole, (F.shape[1], F.shape[0]), interpolation=cv2.INTER_NEAREST) > 0)   # restes de peau ou de contour orangé dans les cheveux
